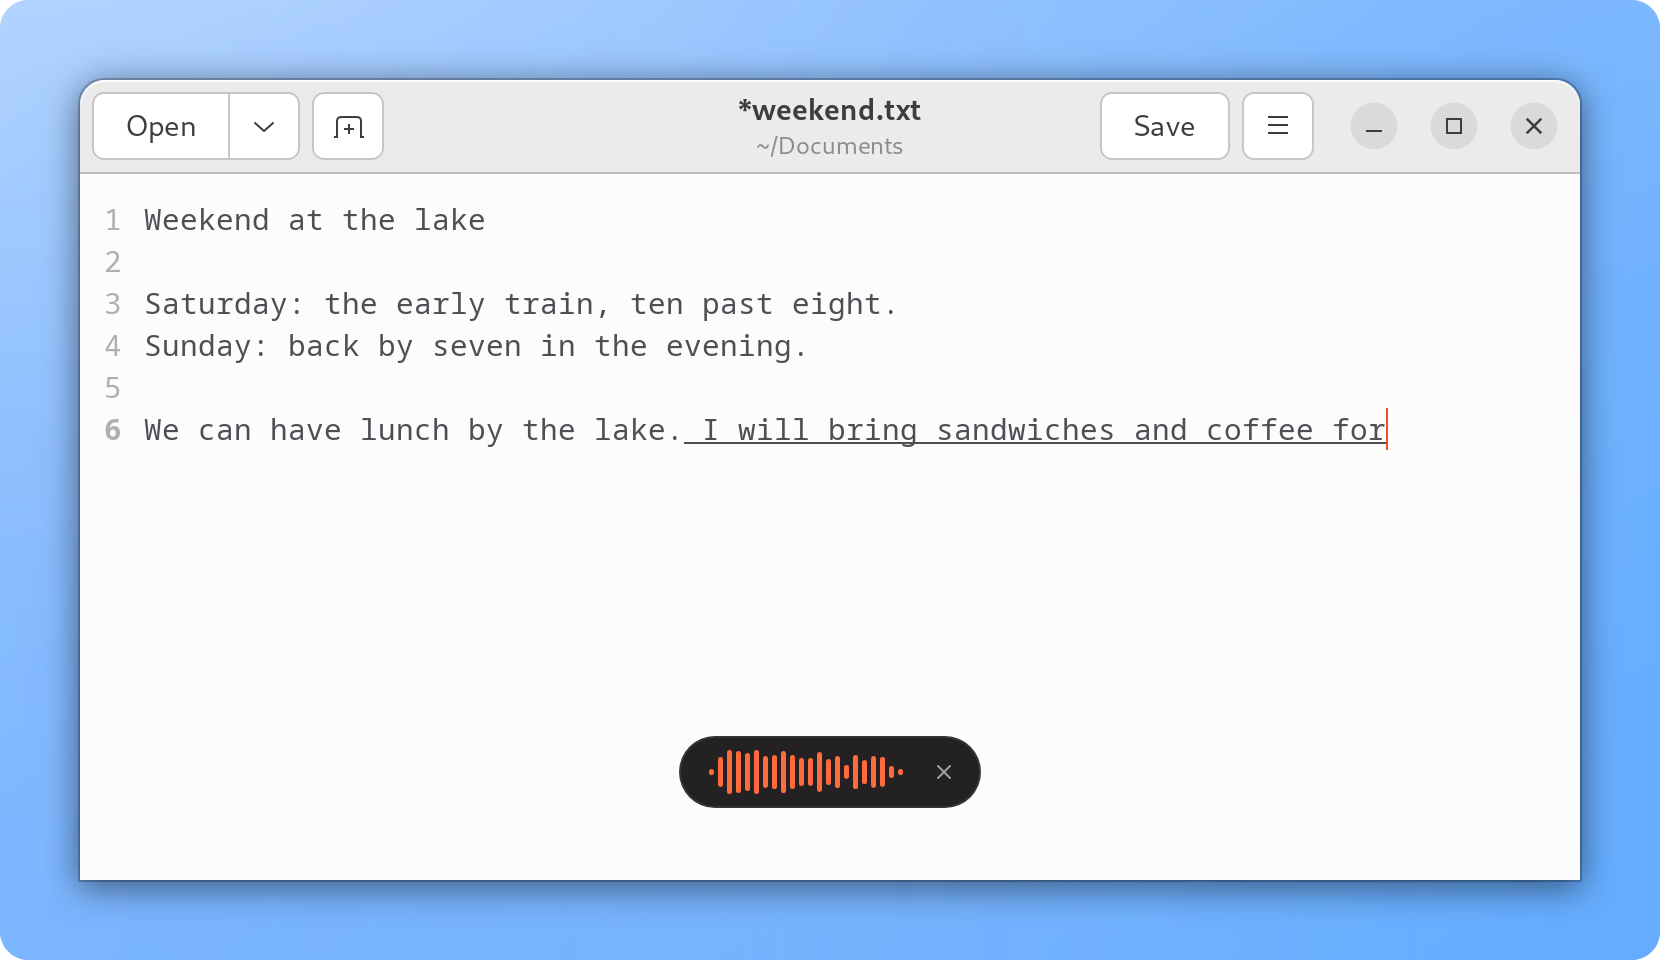
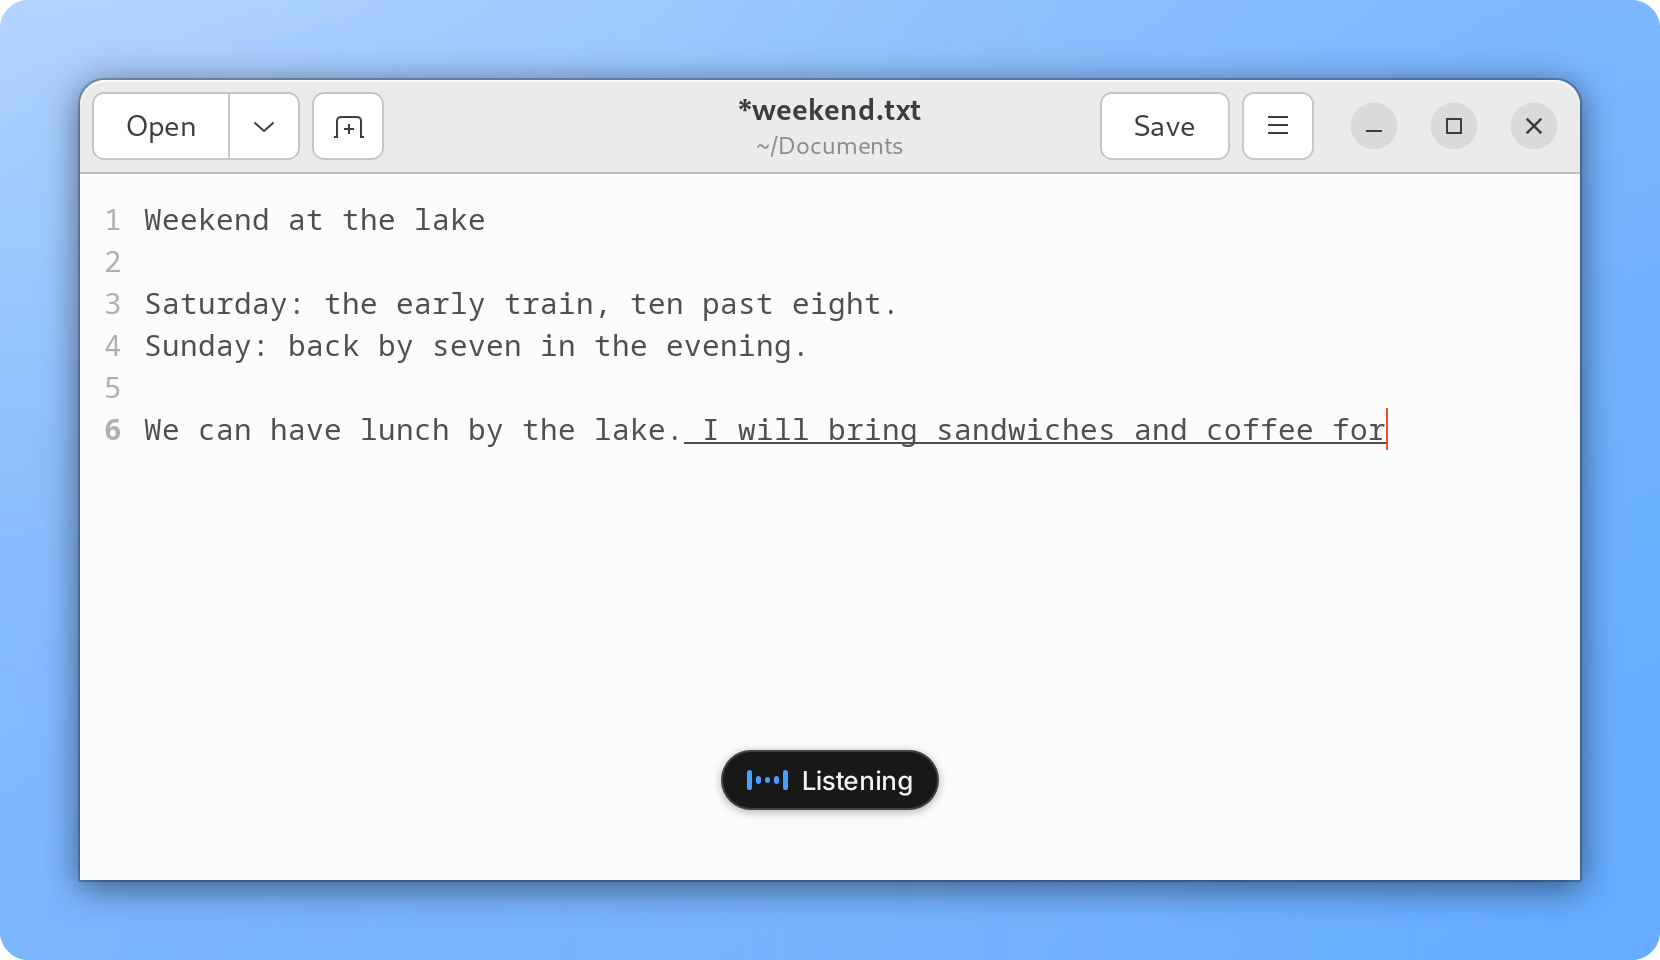
feat(web): make the dictation window a small black pill
It was a wide bar: twenty-two bars of level, the words, a button, in
the theme's own surface colour, and large over whatever is being
written into. It is a pill now, black in either theme since it sits
over other applications: five bars that swell from the middle, and a
word for what it is doing (Listening, Polishing with a sparkle) where
there are no words of the speaker's to show. The way to cancel shows
when the pointer is on it. Its window is 360 by 44.

Changed region(s): [[0.3994, 0.75, 0.6145, 0.875]]

diff --git a/src/Dictation.tsx b/src/Dictation.tsx
@@ -1,8 +1,9 @@
-// The dictation window: a small pill at the bottom of the screen with a live
-// waveform of the microphone, which widens to show the latest words as they
-// are recognized, unless those are going into the application as they are
-// spoken: then they are there to be read, and the pill only listens. It
-// never takes keyboard focus; clicking it finishes the recording.
+// The dictation window: a small dark pill at the bottom of the screen. While
+// it listens it shows the microphone's level and says so; the latest words
+// take the place of that unless they are going into the application as they
+// are spoken: then they are there to be read. While the text is polished it
+// says that, beside a sparkle. It never takes keyboard focus; clicking it
+// finishes the recording.
 
 import { useEffect, useRef, useState } from "react";
 import { X } from "lucide-react";
@@ -10,9 +11,41 @@ import { call, listen, reported } from "./host";
 
 type Phase = "loading" | "listening" | "polishing" | "done" | "error";
 
-/// Bars in the waveform; the newest level is on the right.
-const BARS = 22;
-const silence = () => Array<number>(BARS).fill(0);
+/// Levels kept for the waveform: the newest is drawn in the middle and the
+/// ones before it on either side, so that the bars swell from the centre.
+const KEPT = 3;
+const silence = () => Array<number>(KEPT).fill(0);
+
+/// What the pill says of itself when it has no words to show.
+const SAYING: Record<Phase, string> = {
+  loading: "Starting…",
+  listening: "Listening",
+  polishing: "Polishing…",
+  done: "Done",
+  error: "",
+};
+
+/// Two stars, for the polishing that an AI model does.
+function Sparkle() {
+  return (
+    <svg className="dictation-sparkle" width="16" height="16" viewBox="0 0 16 16" aria-hidden="true">
+      <defs>
+        <linearGradient id="dictation-sparkle" x1="0" y1="0" x2="1" y2="1">
+          <stop offset="0" stopColor="#9bd4ff" />
+          <stop offset="1" stopColor="#2f7df6" />
+        </linearGradient>
+      </defs>
+      <path
+        fill="url(#dictation-sparkle)"
+        d="M9.5 2.5c.5 2.9 1.6 4 4.5 4.5-2.9.5-4 1.6-4.5 4.5-.5-2.9-1.6-4-4.5-4.5 2.9-.5 4-1.6 4.5-4.5Z"
+      />
+      <path
+        fill="url(#dictation-sparkle)"
+        d="M4 9.5c.3 1.6.9 2.2 2.5 2.5-1.6.3-2.2.9-2.5 2.5-.3-1.6-.9-2.2-2.5-2.5 1.6-.3 2.2-.9 2.5-2.5Z"
+      />
+    </svg>
+  );
+}
 
 export function DictationWindow() {
   const [phase, setPhase] = useState<Phase>("loading");
@@ -50,7 +83,7 @@ export function DictationWindow() {
             const value = e.value ?? 0;
             peak.current = Math.max(value, peak.current * 0.995, 0.2);
             const shown = Math.min(1, value / peak.current);
-            setLevels((l) => [...l.slice(1 - BARS), shown]);
+            setLevels((l) => [...l.slice(1 - KEPT), shown]);
           }
           break;
         case "partial":
@@ -85,6 +118,8 @@ export function DictationWindow() {
 
   const recording = phase === "loading" || phase === "listening";
   const text = note || (live ? "" : committed + partial);
+  // Older, newer, newest, newer, older.
+  const bars = [levels[0], levels[1], levels[2], levels[1], levels[0]];
 
   return (
     // A press anywhere on the window is said at once, before the click it
@@ -95,13 +130,19 @@ export function DictationWindow() {
         title={recording ? "Click to finish" : undefined}
         onClick={() => recording && call("dictation_toggle").catch(reported())}
       >
-        <div className="waveform">
-          {levels.map((level, i) => (
-            // A quiet room still shows a faint line; speech reaches full height.
-            <span key={i} style={{ height: `${recording ? Math.max(12, level * 100) : 12}%` }} />
-          ))}
-        </div>
-        {text && (
+        {phase === "polishing" ? (
+          <Sparkle />
+        ) : (
+          phase !== "error" && (
+            <div className="waveform">
+              {bars.map((level, i) => (
+                // A quiet room still shows a faint line; speech reaches full height.
+                <span key={i} style={{ height: `${recording ? Math.max(18, level * 100) : 18}%` }} />
+              ))}
+            </div>
+          )
+        )}
+        {text ? (
           <div className="dictation-text">
             {/* Clipped on the left, so the newest words stay visible. */}
             <span>
@@ -109,6 +150,8 @@ export function DictationWindow() {
               {!note && <span className="dictation-partial">{partial}</span>}
             </span>
           </div>
+        ) : (
+          <span className="dictation-saying">{SAYING[phase]}</span>
         )}
         {recording && (
           <button
@@ -119,7 +162,7 @@ export function DictationWindow() {
               call("dictation_cancel").catch(reported());
             }}
           >
-            <X size={12} />
+            <X size={11} />
           </button>
         )}
       </div>

diff --git a/src/styles/components/_dictation.scss b/src/styles/components/_dictation.scss
@@ -10,22 +10,23 @@
   height: 100%;
 }
 
+/* A small black pill, whatever the theme: it sits over other applications,
+   not on Heyo's own surfaces. Its colours are the dark ones of the scales. */
 .dictation {
   display: flex;
   align-items: center;
-  gap: 10px;
-  max-width: calc(100% - 8px);
-  height: 36px;
-  padding: 0 8px 0 14px;
-  border: 1px solid var(--color-border);
-  border-radius: 18px;
-  background: var(--color-bg);
+  gap: 7px;
+  max-width: calc(100% - 12px);
+  height: 30px;
+  padding: 0 12px;
+  border: 1px solid var(--color-border-strong);
+  border-radius: 15px;
+  background: rgba(10, 10, 11, 0.94);
+  box-shadow: 0 1px 5px rgba(0, 0, 0, 0.3);
+  color: var(--color-text);
+  color-scheme: dark;
   cursor: default;
   user-select: none;
-}
-
-.dictation:not(.loading, .listening) {
-  padding-right: 14px;
 }
 
 .waveform {
@@ -33,7 +34,7 @@
   flex: none;
   align-items: center;
   gap: 2px;
-  height: 22px;
+  height: 14px;
 }
 
 .waveform span {
@@ -41,7 +42,7 @@
   min-height: 2.5px;
   border-radius: 2px;
   background: var(--color-accent);
-  transition: height 0.06s linear;
+  transition: height 0.08s linear;
 }
 
 .dictation.loading .waveform span,
@@ -49,29 +50,27 @@
   background: var(--color-text-muted);
 }
 
-.dictation.error .waveform span {
-  background: var(--color-danger);
+/* While the text is polished, the sparkle breathes. */
+.dictation-sparkle {
+  flex: none;
+  animation: breathe 1.4s ease-in-out infinite;
 }
 
-/* While Claude polishes, the bars ripple. */
-.dictation.polishing .waveform span {
-  height: 30% !important;
-  background: var(--color-text-muted);
-  animation: ripple 0.9s ease-in-out infinite;
-}
-
-.dictation.polishing .waveform span:nth-child(3n + 1) {
-  animation-delay: 0.15s;
-}
-
-.dictation.polishing .waveform span:nth-child(3n + 2) {
-  animation-delay: 0.3s;
-}
-
-@keyframes ripple {
+@keyframes breathe {
   50% {
-    transform: scaleY(2.6);
+    opacity: 0.55;
+    transform: scale(0.9);
   }
+}
+
+.dictation-saying,
+.dictation-text {
+  @include text(sm, medium);
+  white-space: nowrap;
+}
+
+.dictation-saying:empty {
+  display: none;
 }
 
 .dictation-text {
@@ -79,8 +78,6 @@
   justify-content: flex-end;
   min-width: 0;
   overflow: hidden;
-  @include text(md);
-  white-space: nowrap;
 }
 
 .dictation-text > span {
@@ -95,9 +92,16 @@
   color: var(--color-danger);
 }
 
+/* The way out of a recording shows when the pointer is on the pill. */
 .dictation .icon-button {
+  display: none;
   flex: none;
-  padding: 4px;
+  margin-right: -5px;
+  padding: 3px;
+}
+
+.dictation:hover .icon-button {
+  display: inline-flex;
 }
 
 .st-badge {

diff --git a/src-tauri/src/dictation.rs b/src-tauri/src/dictation.rs
@@ -51,8 +51,8 @@ use onscreen::{OnScreen, Shortfall, Standing, Step};
 pub const WINDOW: &str = "dictation";
 const EVENT: &str = crate::wire::event::DICTATION;
 /// Logical size of the dictation window.
-const WIDTH: f64 = 420.0;
-const HEIGHT: f64 = 52.0;
+const WIDTH: f64 = 360.0;
+const HEIGHT: f64 = 44.0;
 
 #[derive(Default)]
 pub struct Dictation(Mutex<State>);
